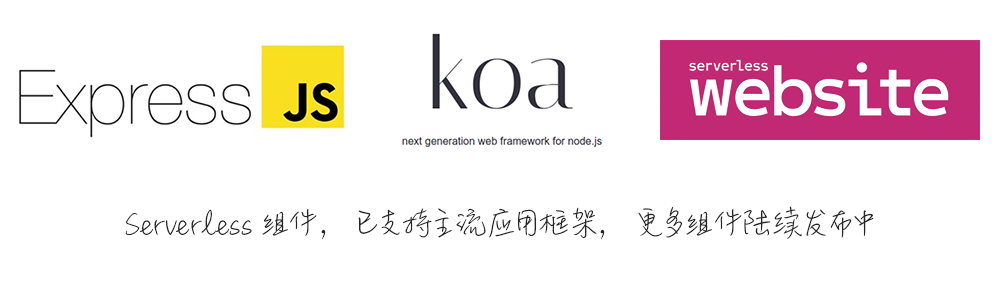
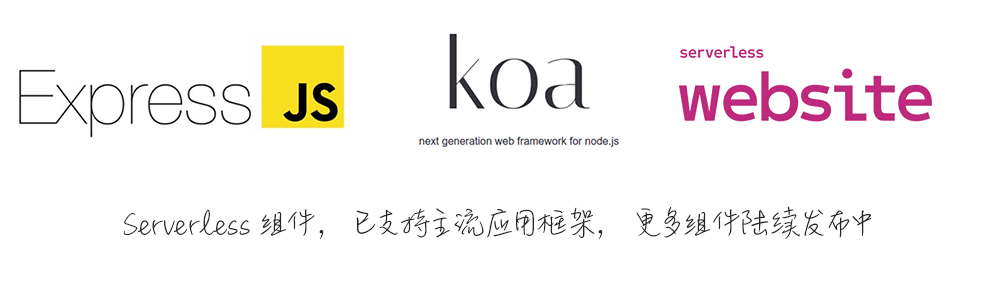
feat: assets adjustment

diff --git a/src/components/pages/home/Swiper.tsx b/src/components/pages/home/Swiper.tsx
@@ -6,7 +6,6 @@ import Swiper from '@src/components/Swiper'
 import banner1 from '@src/assets/images/swiper-banner1.png'
 import banner2 from '@src/assets/images/swiper-banner2.png'
 import banner3 from '@src/assets/images/swiper-banner3.png'
-import { Link as InnerLink } from 'gatsby'
 import ExternalLink from '@src/components/Link/ExternalLink'
 
 import styled from 'styled-components'
@@ -21,13 +20,11 @@ const bannerConfigs: {
   backgroundColor: string
   alt: string
   link: string
-  isExternalLink?: boolean
 }[] = [
   {
     img: banner1,
     backgroundColor: '#000',
     alt: 'Serverless Framework',
-    isExternalLink: true,
     link: 'https://github.com/serverless/serverless',
   },
   {
@@ -56,29 +53,28 @@ export default function() {
                 : theme.headerHeights.mobile
             }
           >
-            <Swiper>
+            <Swiper height={['200px', '200px', '300px', '300px', '300px']}>
               {bannerConfigs.map((config, index) => {
-                const Link = config.isExternalLink ? ExternalLink : InnerLink
-
                 return (
                   <Background
                     key={index}
                     className="swiper-slide"
                     width={1}
-                    height={['200px', '200px', '200px', '300px']}
                     backgroundRepeat="no-repeat"
                     background={config.backgroundColor}
                   >
-                    <Link to={config.link}>
+                    <ExternalLink to={config.link}>
                       <ImageWrapper>
                         <Image
-                          width={[0.8, 0.8, 1, '1000px'] as any}
-                          height={['auto', 'auto', '200px', '300px'] as any}
+                          width={[0.8, 0.8, 0.8, '1000px'] as any}
+                          height={
+                            ['auto', 'auto', 'auto', '300px', '300px'] as any
+                          }
                           src={config.img}
                           alt={config.alt}
                         />
                       </ImageWrapper>
-                    </Link>
+                    </ExternalLink>
                   </Background>
                 )
               })}

diff --git a/src/components/Swiper.tsx b/src/components/Swiper.tsx
@@ -4,6 +4,7 @@ import styled from 'styled-components'
 import { Box } from '@src/components/atoms'
 import 'swiper/css/swiper.min.css'
 import theme from '@src/constants/theme'
+import { HeightProps } from 'styled-system'
 
 const Wrapper = styled(Box)`
   .swiper-pagination .swiper-pagination-bullet-active {
@@ -11,12 +12,12 @@ const Wrapper = styled(Box)`
   }
 `
 
-export interface Props extends React.Props<any> {
+export interface Props extends React.Props<any>, HeightProps {
   swiperProps?: SwiperOptions
 }
 
 export default function(props: Props) {
-  const { swiperProps, children } = props
+  const { swiperProps, children, height } = props
 
   React.useEffect(() => {
     const _swiperProps = Object.assign(
@@ -32,19 +33,15 @@ export default function(props: Props) {
           el: '.swiper-pagination',
           clickable: true,
         },
-      },
+      } as SwiperOptions,
       swiperProps || {}
-    ) as SwiperOptions
+    )
     ;(_swiperProps.pagination as any).el = '.swiper-pagination'
     new Swiper('.swiper-container', _swiperProps)
   }, [swiperProps])
 
   return (
-    <Wrapper
-      width={1}
-      height={['200px', '200px', '200px', '300px']}
-      className="swiper-container"
-    >
+    <Wrapper width={1} height={height} className="swiper-container">
       <div className="swiper-wrapper">{children}</div>
       <div className="swiper-pagination"></div>
     </Wrapper>

diff --git a/src/components/Footer.tsx b/src/components/Footer.tsx
@@ -13,9 +13,8 @@ import theme from '@src/constants/theme'
 import styled from 'styled-components'
 import { Link as InternalLink } from 'gatsby'
 import ExternalLink from './Link/ExternalLink'
-import QQQRcode from '@src/assets/images/qq_qrcode.jpg'
-import WechatQRcode from '@src/assets/images/wechat_qrcode.jpg'
-// import logo from '@src/assets/images/logo-serverless-framework-center-vertical-dark.png'
+import QQQRcode from '@src/assets/images/qq_qrcode.png'
+import WechatQRcode from '@src/assets/images/wechat_qrcode.png'
 import logo from '@src/assets/images/icon-serverless-framework.png'
 
 const links: {
@@ -189,7 +188,7 @@ export default function() {
       </Background>
 
       <Background width={[1]} background={theme.colors.serverlessRed}>
-        <Container maxWidth={['100%', '100%', '100%', '76%', '85%']}>
+        <Container maxWidth={[1, 1, 1, 0.76, 0.85]}>
           <Box pt={'15px'} pb={'15px'} pl={'10px'} pr={'10px'}>
             <Flex
               flexDirection={['column', 'column', 'column', 'row', 'row']}

diff --git a/src/constants/componentConfig.ts b/src/constants/componentConfig.ts
@@ -15,7 +15,7 @@ const config: Component[] = [
   {
     name: 'express component',
     thumbnail:
-      'https://img.qcloud.com/qcloud/iaas_web/build/sfo_express_2x_v2.png',
+      'https://main.qcloudimg.com/raw/706ecab42919643ad6099a7b585efc16.png',
     slogan: '只需3秒，部署您的 Express.js 应用程序',
     description:
       '通过腾讯云 Express 组件，只需短短几秒，便能在腾讯云Serverless 架构上部署按需计费的 Express.js 应用程序。',
@@ -24,7 +24,7 @@ const config: Component[] = [
   {
     name: 'website component',
     thumbnail:
-      'https://img.qcloud.com/qcloud/iaas_web/build/sfo_website_2x_v2.png',
+      'https://main.qcloudimg.com/raw/38c79c64784c926f05e4de86093874ff.png',
     slogan: '一行命令，部署您的静态网站',
     description:
       '腾讯云 Website 组件现已支持最新的 Web 框架和技术（Vue.js、React 等），您可以在几秒钟内将静态网站部署到对象存储中。',

diff --git a/src/components/pages/blogList/List.tsx b/src/components/pages/blogList/List.tsx
@@ -4,6 +4,7 @@ import BlogListItem from './ListItem'
 import Pagination from './Pagination'
 import { Blog } from '@src/types'
 import { navigate } from 'gatsby'
+import { WidthProps } from 'styled-system'
 
 export default function({
   blogs,
@@ -11,15 +12,16 @@ export default function({
   limit,
   totalCount,
   generateDataUrl,
+  ...rest
 }: {
   blogs: Blog[]
   offset: number
   limit: number
   totalCount: number
   generateDataUrl: (pageNum: number) => string
-}) {
+} & WidthProps) {
   return (
-    <Box width={[0.9, 0.9, 0.9, 0.76]}>
+    <Box width={[0.9, 0.9, 0.9, 0.76]} {...rest}>
       <Box mx="auto">
         {blogs.map(blog => (
           <BlogListItem key={blog.node.id} data={blog} />

diff --git a/src/pages/component.tsx b/src/pages/component.tsx
@@ -31,7 +31,7 @@ const ComponentPage = ({ location }: Props) => {
         py="60px"
         maxWidth={[1216, 1216, 1216, '85%', '90%', 1216]}
       >
-        <Flex flexWrap="wrap">
+        <Flex justifyContent="space-around" flexWrap="wrap">
           {componentConfig.map(component => (
             <Link to={component.link} key={component.name}>
               <Card height="386px" width={[0.9, 0.9, 340, 360]}>

diff --git a/src/pages/forum.tsx b/src/pages/forum.tsx
@@ -3,7 +3,7 @@ import Layout from '@src/layouts/HeaderNotFixedLayout'
 import { Container, Text, Column, Image } from '@src/components/atoms'
 import Helmet from '@src/components/Helmet'
 import styled from 'styled-components'
-import WechatQRcode from '@src/assets/images/wechat_qrcode.jpg'
+import WechatQRcode from '@src/assets/images/wechat_qrcode.png'
 
 const CustomContainer = styled(Container)`
   flex: 1;

diff --git a/src/components/Breadcrumbs.tsx b/src/components/Breadcrumbs.tsx
@@ -1,6 +1,5 @@
 import * as React from 'react'
-// import _logo from '@src/assets/images/research_bg.jpg'
-import _logo from '@src/assets/images/breadcrumbs_bg.jpg'
+import _logo from '@src/assets/images/breadcrumbs_bg.png'
 
 import {
   Background,

diff --git a/src/templates/BestPracticeList.tsx b/src/templates/BestPracticeList.tsx
@@ -35,6 +35,7 @@ const BlogList = ({
 
       <Content>
         <List
+          width={[0.9, 0.9, 0.9, 0.85]}
           generateDataUrl={pageNum =>
             `/best-practice${pageNum === 1 ? '' : `/page/${pageNum}`}`
           }

diff --git a/content/docs/支持者 Component 文档/腾讯云/最佳实践/快速部署静态网站.md b/content/docs/支持者 Component 文档/腾讯云/最佳实践/快速部署静态网站.md
@@ -2,13 +2,13 @@
 link: /providers/tencent/components/website
 ---
 
-[![Serverless Framework Tencent Cloud Plugin](https://s3.amazonaws.com/assets.general.serverless.com/component_website_tencent/readme-website-tencent-serverless.png)](http://serverless.com)
+[![Serverless Framework Tencent Cloud Plugin](https://main.qcloudimg.com/raw/38c79c64784c926f05e4de86093874ff.png)](http://serverless.com)
 
 &nbsp;
 
 ## 简介
 
-静态网站应用调用了基础的腾讯云COS组件，可以快速部署静态网站页面到对象存储COS中，并生成域名供访问。
+静态网站应用调用了基础的腾讯云 COS 组件，可以快速部署静态网站页面到对象存储 COS 中，并生成域名供访问。
 
 ## 快速开始
 
@@ -26,7 +26,7 @@ link: /providers/tencent/components/website
 
 ### 1. 安装
 
-通过npm安装serverless
+通过 npm 安装 serverless
 
 ```
 $ npm install -g serverless
@@ -34,7 +34,7 @@ $ npm install -g serverless
 
 ### 2. 创建
 
-本地创建my-website文件夹
+本地创建 my-website 文件夹
 
 ```
 $ mkdir my-website
@@ -54,18 +54,19 @@ $ touch serverless.yml
 
 ```
 
- `code`目录下应该对应 HTML/CSS/JS 资源的文件，或者一个完整的 React 应用。
+`code`目录下应该对应 HTML/CSS/JS 资源的文件，或者一个完整的 React 应用。
 下载 [示例 HTML](https://tinatest-1251971143.cos.ap-beijing.myqcloud.com/index.html)，将以下代码放在 index.html 文件中：
+
 ```html
 <!DOCTYPE html>
 <html lang="en">
-<head>
-    <meta charset="UTF-8">
+  <head>
+    <meta charset="UTF-8" />
     <title>Hello, Tencent Cloud</title>
-</head>
-<body>
-Hello, Tencent Cloud
-</body>
+  </head>
+  <body>
+    Hello, Tencent Cloud
+  </body>
 </html>
 ```
 
@@ -77,7 +78,7 @@ Hello, Tencent Cloud
 # serverless.yml
 
 myWebsite:
-  component: "@serverless/tencent-website"
+  component: '@serverless/tencent-website'
   inputs:
     code:
       src: ./code
@@ -85,11 +86,9 @@ myWebsite:
       error: index.html
     region: ap-guangzhou
     bucketName: my-bucket
-
 ```
 
-* [点击此处查看配置文档](https://github.com/serverless-tencent/tencent-website/blob/master/docs/configure.md)
-
+- [点击此处查看配置文档](https://github.com/serverless-tencent/tencent-website/blob/master/docs/configure.md)
 
 ### 4. 部署
 
@@ -99,7 +98,7 @@ myWebsite:
 
 ```
 $ sls --debug
-  
+
     DEBUG ─ Resolving the template's static variables.
     DEBUG ─ Collecting components from the template.
     DEBUG ─ Downloading any NPM components found in the template.
@@ -119,19 +118,19 @@ $ sls --debug
     DEBUG ─ Starting upload to bucket my-bucket-1300415943 in region ap-guangzhou
     DEBUG ─ Uploading directory /Users/dfounderliu/Desktop/temp/code/src to bucket my-bucket-1300415943
     DEBUG ─ Website deployed successfully to URL: https://my-bucket-1300415943.cos-website.ap-guangzhou.myqcloud.com.
-  
-    myWebsite: 
+
+    myWebsite:
       url: https://my-bucket-1300415943.cos-website.ap-guangzhou.myqcloud.com
-      env: 
-  
+      env:
+
     2s › myWebsite › done
 
 ```
 
-
 ### 5. 移除
 
 通过以下命令移除项目
+
 ```
 $ sls remove --debug
 
@@ -148,17 +147,17 @@ $ sls remove --debug
 
 ### 账号配置（可选）
 
-当前默认支持CLI扫描二维码登录，如您希望配置持久的环境变量/秘钥信息，也可以本地创建 `.env` 文件
+当前默认支持 CLI 扫描二维码登录，如您希望配置持久的环境变量/秘钥信息，也可以本地创建 `.env` 文件
 
 ```
 $ touch .env # 腾讯云的配置信息
 ```
 
-在 `.env` 文件中配置腾讯云的SecretId和SecretKey信息并保存
+在 `.env` 文件中配置腾讯云的 SecretId 和 SecretKey 信息并保存
 
 如果没有腾讯云账号，可以在此[注册新账号](https://cloud.tencent.com/register)。
 
-如果已有腾讯云账号，可以在[API密钥管理](https://console.cloud.tencent.com/cam/capi)中获取 `SecretId` 和`SecretKey`.
+如果已有腾讯云账号，可以在[API 密钥管理](https://console.cloud.tencent.com/cam/capi)中获取 `SecretId` 和`SecretKey`.
 
 ```env
 # .env

diff --git a/content/best-practice/2019-12-4-Quickly-build-personal-blog.md b/content/best-practice/2019-12-4-Quickly-build-personal-blog.md
@@ -2,7 +2,7 @@
 title: Hexo + Serverless Framework，简单三步搭建你的个人博客
 description: 简单三步，即可通过 Serverless Website 组件快速构建一个 Serverless Hexo 站点。
 date: 2019-12-05
-thumbnail: https://main.qcloudimg.com/raw/725de011824cbb11764b7f7a5f63034c.png
+thumbnail: https://main.qcloudimg.com/raw/38c79c64784c926f05e4de86093874ff.png
 categories:
   - best-practice
 authors:
@@ -16,13 +16,15 @@ authorslink:
 > PS：不会写代码？没有备案的域名？没有服务器？在这里，这些都不是事儿！
 
 # 工具介绍
+
 **[Serverless Framework](https://github.com/serverless/serverless)**：Serverless Framework 是业界非常受欢迎的无服务器应用框架，开发者无需关心底层资源即可部署完整可用的 Serverless 应用架构。
 
 **[Hexo](https://hexo.io/zh-cn/)**：Hexo 是一个快速、简洁且高效的博客框架。Hexo 使用 Markdown（或其他渲染引擎）解析文章，在几秒内，即可利用靓丽的主题生成静态网页。
 
 # 快速开始
- [Serverless Framework](https://github.com/serverless/serverless) 提供了丰富的 [Component](https://github.com/serverless/components) 供用户搭建各种形态的 Serverless 应用。本文将演示通过 [Serverless Website Component](https://github.com/serverless-components/tencent-website) 快速构建一个 Serverless Hexo 站点。
- 
+
+[Serverless Framework](https://github.com/serverless/serverless) 提供了丰富的 [Component](https://github.com/serverless/components) 供用户搭建各种形态的 Serverless 应用。本文将演示通过 [Serverless Website Component](https://github.com/serverless-components/tencent-website) 快速构建一个 Serverless Hexo 站点。
+
 <video id="video" controls="" preload="none" poster="https://main.qcloudimg.com/raw/224b4cd7be63b7f7843b8cba8fda8052.png">
       <source id="mp4" src="https://video-1251001047.cos.ap-chengdu.myqcloud.com/serverless-hexo.mp4" type="video/mp4">
       </video>
@@ -34,7 +36,9 @@ authorslink:
 3. 部署
 
 ## 安装
+
 安装前提：
+
 - [Node.js](https://nodejs.org/en/)（Node.js 版本需不低于 8.6，建议使用 Node.js 10.0 及以上版本）
 - [Git](https://git-scm.com/)
 
@@ -114,6 +118,7 @@ $ touch serverless.yml
 ```
 
 ## 部署
+
 通过 `sls` 命令进行部署，并可以添加 `--debug` 参数查看部署过程中的信息。
 
 如您的账号未登陆或注册腾讯云，您可以直接通过微信扫描命令行中的二维码进行授权登陆和注册。
